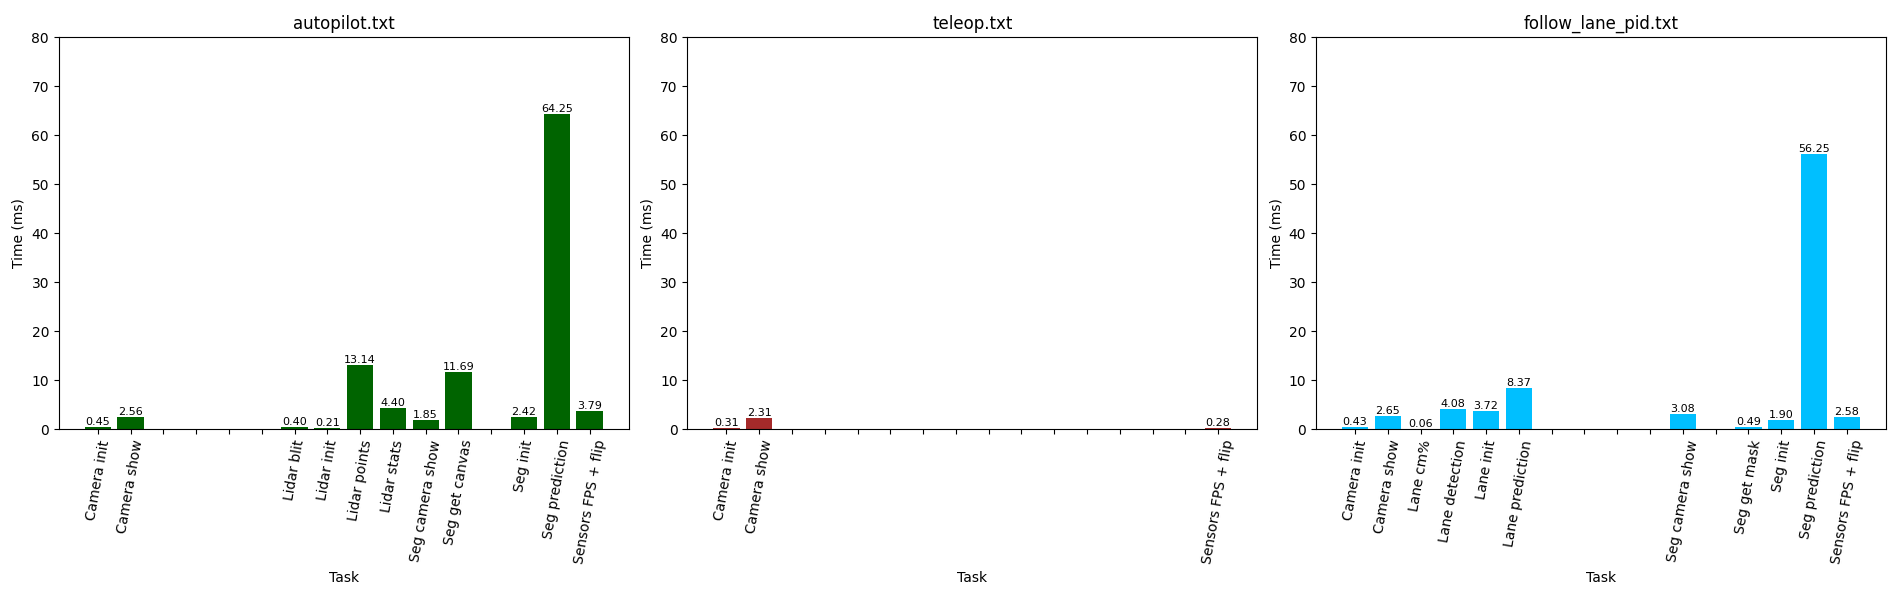
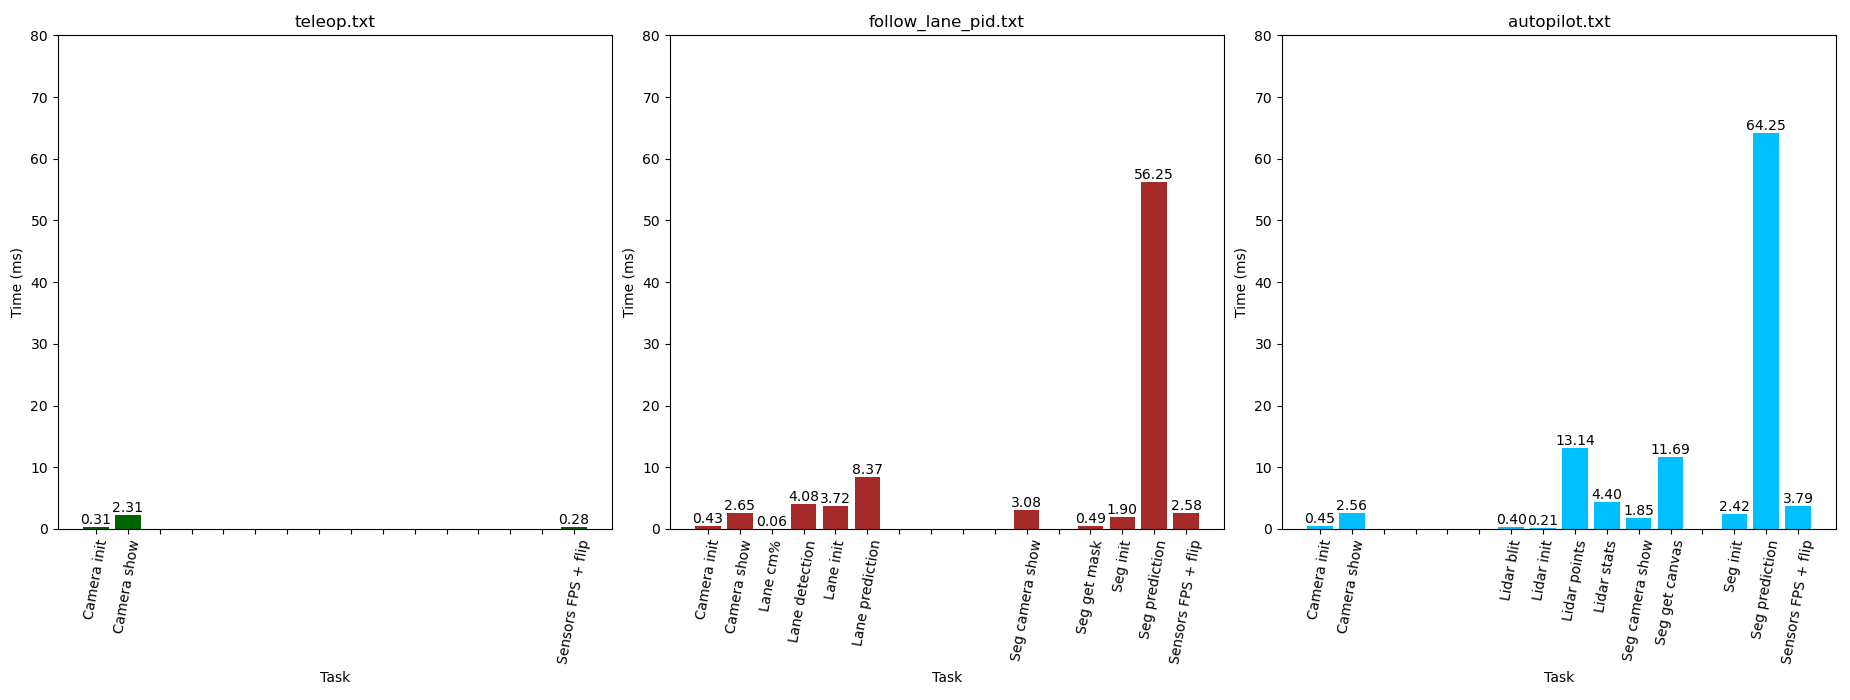
bigger image

diff --git a/src/profiling/mean.py b/src/profiling/mean.py
@@ -7,7 +7,7 @@ import numpy as np
 MILI_TO_NANO = 10**6
 
 def get_data():
-    dir = "/home/alumnos/lara/2024-tfg-lara-poves/src/profiling/times"
+    dir = "/home/lara/2024-tfg-lara-poves/src/profiling/times"
     all_tasks = set() 
     data = defaultdict(dict)  
 
@@ -43,7 +43,7 @@ def main():
 
     num_columns = 3
     num_rows = num_files // num_columns if num_files % num_columns == 0 else num_files // num_columns + 1
-    _, axs = plt.subplots(num_rows, num_columns, figsize=(20, num_rows * 6))
+    _, axs = plt.subplots(num_rows, num_columns, figsize=(6.6 * num_columns, num_rows * 7))
 
     file_index = 0
     for file_name, means, color in zip(data.keys(), data.values(), colors):
@@ -60,7 +60,7 @@ def main():
                 sorted_tasks[i] = init
                 init += ' '
             else:
-                ax.text(i, times[i], f"{times[i]:.2f}", ha='center', va='bottom', fontsize=8)
+                ax.text(i, times[i], f"{times[i]:.2f}", ha='center', va='bottom', fontsize=10)
 
         ax.bar(sorted_tasks, times, color=color)
         ax.set_title(file_name)
